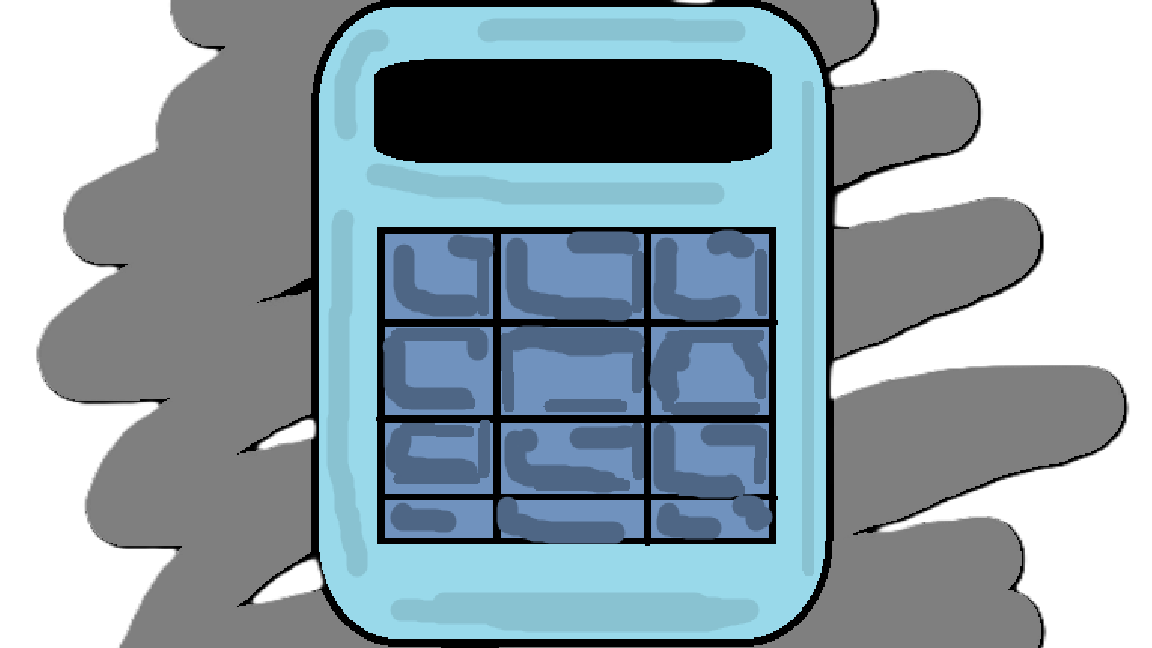
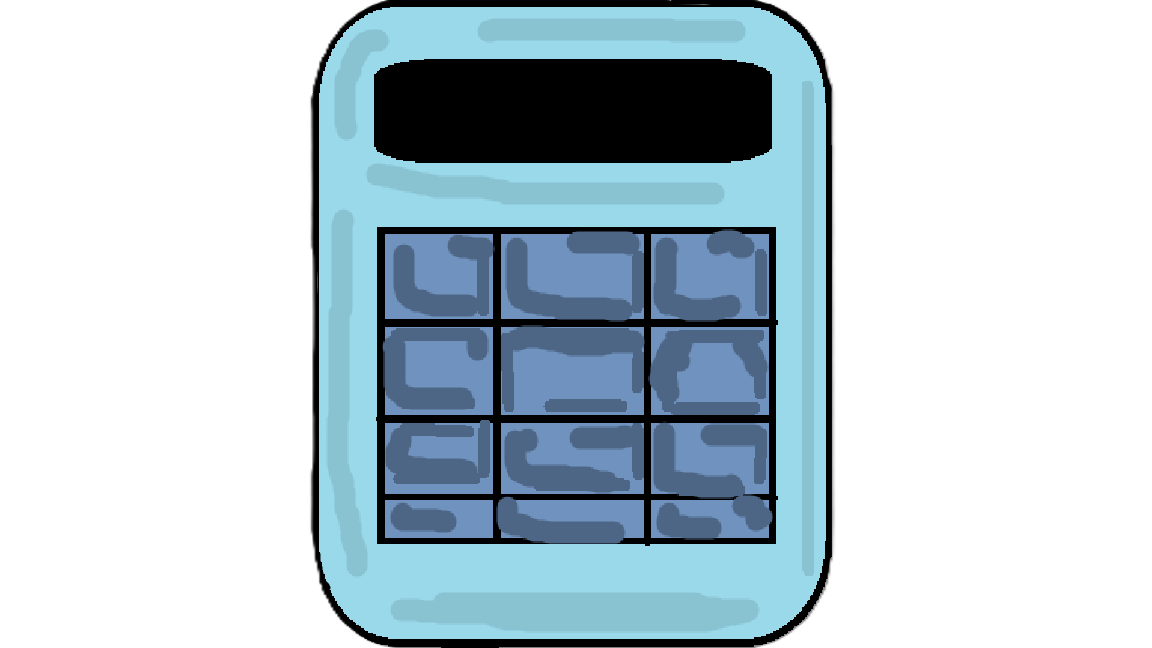
Session 8 - Simplified display of Decimal numbers to 8d.p. max

diff --git a/CalculatorApp/CalculatorApp.py b/CalculatorApp/CalculatorApp.py
@@ -1,5 +1,6 @@
 from tkinter import *
 import tkinter.font   
+
 # Function to Create 10 buttons, name,  and store them 
 def buttonMaker():
     btArray = []
@@ -183,6 +184,7 @@ def operations():
         
 def displayAnswer(recents, operand, display_answer):
     last_num_typed = textBox.get("1.0", END)
+    #recents.append(last_num_typed)
     display_answer = True
     try:
         last_op = operand[len(operand)-1]
@@ -190,6 +192,7 @@ def displayAnswer(recents, operand, display_answer):
             prevnum = recents[len(recents)-2]
             try:
                 answer = prevnum + float(last_num_typed)
+                answer  = round(answer, 8)
                 recent_num_array.append(answer)
                 if answer.is_integer():
                     answer = int(answer)
@@ -203,6 +206,7 @@ def displayAnswer(recents, operand, display_answer):
             prevnum = recents[len(recents)-2]
             try:
                 answer = prevnum - float(last_num_typed)
+                answer  = round(answer, 8)
                 if answer.is_integer():
                     answer = int(answer)
                 textBox.delete("1.0", END)
@@ -215,6 +219,7 @@ def displayAnswer(recents, operand, display_answer):
             prevnum = recents[len(recents)-2]
             try:
                 answer = prevnum * float(last_num_typed)
+                answer  = round(answer, 8)
                 if answer.is_integer():
                     answer = int(answer)
                 textBox.delete("1.0", END)
@@ -227,6 +232,7 @@ def displayAnswer(recents, operand, display_answer):
             prevnum = recents[len(recents)-2]
             try:
                 answer = prevnum / float(last_num_typed)
+                answer  = round(answer, 8)
                 if answer.is_integer():
                     answer = int(answer)
                 textBox.delete("1.0", END)
@@ -273,6 +279,7 @@ recent_num_array = []
 answer_array = []
 operand = []
 display_answer = False
+
 #Custom Fonts
 custom_font_buttons = tkinter.font.Font(family= "Arial", size = 20, weight = "bold")
 custom_font_numbers = tkinter.font.Font(family= "consola", size = 60, weight = "bold")
